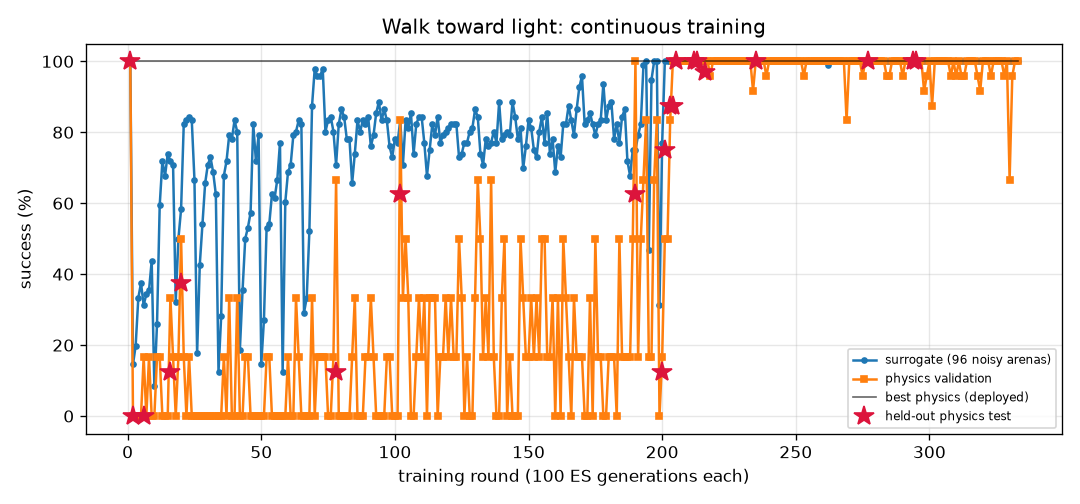
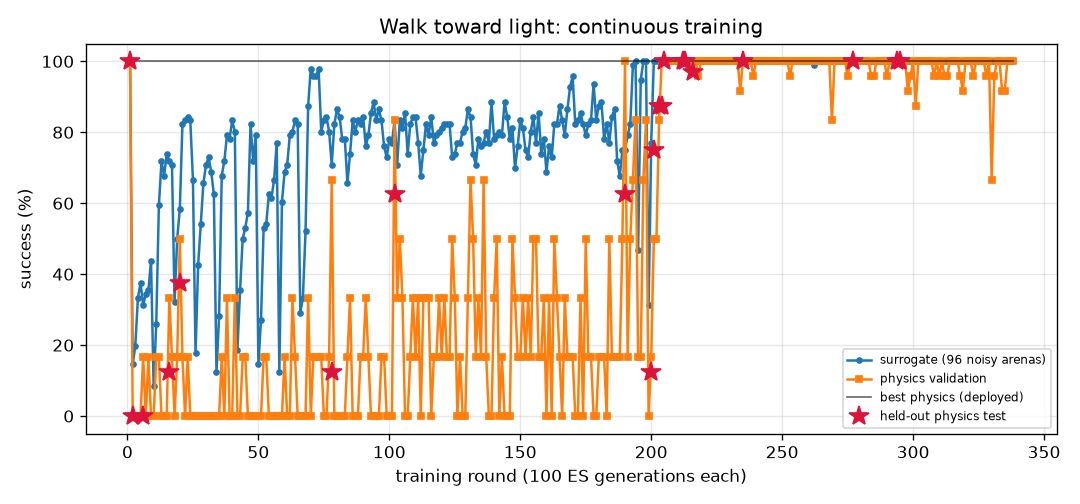
FlyLab: continuous training progress
- walk_forward: optimal, physics val 100% of 24, round 163
- turn: optimal, physics val 100% of 24, round 625
- goto: optimal, physics val 100% of 24, round 152
- odor_seek: optimal, physics val 100% of 24, round 133
- odor_avoid: optimal, physics val 100% of 24, round 600
- light_seek: optimal, physics val 100% of 24, round 338
- light_avoid: optimal, physics val 100% of 24, round 335

diff --git a/projects/09_flylab/training/light_seek/REPORT.md b/projects/09_flylab/training/light_seek/REPORT.md
@@ -1,14 +1,14 @@
 # Walk toward light (`light_seek`) — training report
 
-*Auto-generated by `train_brains.py`, last updated 2026-10-23T22:15:39.*
+*Auto-generated by `train_brains.py`, last updated 2026-10-24T21:12:32.*
 
 ![curve](curve.png)
 
 | | |
 |---|---|
-| rounds | 333 |
-| ES generations | 33300 |
-| physics runs | 4840 |
+| rounds | 338 |
+| ES generations | 33800 |
+| physics runs | 4960 |
 | status | **optimal** |
 | best brain | round 295: physics validation **100%** on 24 arenas, surrogate 100% |
 | held-out physics test | **100%** on 32 unseen arenas (95% CI 89%-100%) (errors: [0.58, 0.62, 0.61, 0.63, 0.65, 0.65, 0.73, 0.55, 0.64, 0.59, 0.59, 0.58, 0.69, 0.61, 0.59, 0.6, 0.6, 0.63, 0.59, 0.64, 0.61, 1.11, 0.62, 0.58, 0.58, 0.58, 0.67, 0.63, 0.58, 0.66, 0.67, 0.59]) |
@@ -17,11 +17,6 @@ Physics error per arena: mm from target at the end (< 1.5 and standing still = s
 
 | round | level | gens | sigma | surrogate | physics val | val errors | test | note |
 |---:|---:|---:|---:|---:|---:|---|---:|---|
-| 294 | 3 | 29400 | 0.024 | 100% | 100% | [0.67, 0.65, 0.65, 0.67, 0.67, 0.62, 0.63, 0.59, 0.68, 0.58, 0.71, 0.69, 0.65, 0.74, 0.68, 0.61, 0.63, 0.66, 0.64, 0.67, 0.74, 0.68, 0.62, 0.73] | 100% | new best |
-| 295 | 3 | 29500 | 0.024 | 100% | 100% | [0.53, 0.58, 0.65, 0.58, 0.68, 0.6, 0.63, 0.66, 0.69, 0.62, 0.63, 0.63, 0.6, 0.65, 0.61, 0.59, 0.67, 0.77, 0.62, 0.65, 0.61, 0.64, 0.64, 0.62] | 100% | new best |
-| 296 | 3 | 29600 | 0.024 | 100% | 100% | [0.51, 0.5, 0.51, 0.65, 0.76, 0.5, 0.57, 0.53, 0.49, 0.83, 0.53, 0.49, 0.51, 0.53, 0.74, 0.49, 0.6, 0.81, 0.65, 0.7, 0.48, 0.72, 0.51, 0.56] |  |  |
-| 297 | 3 | 29700 | 0.024 | 100% | 100% | [0.85, 0.79, 0.53, 0.58, 0.49, 0.59, 0.47, 0.52, 0.51, 0.59, 0.49, 0.51, 0.55, 0.55, 0.6, 0.54, 0.59, 0.47, 0.55, 0.52, 0.46, 0.86, 0.82, 0.6] |  |  |
-| 298 | 3 | 29800 | 0.024 | 100% | 92% | [0.53, 0.56, 0.55, 0.52, 0.52, 0.56, 0.5, 0.58, 0.47, 0.62, 0.46, 1.1, 0.62, 1.01, 0.55, 0.54, 0.57, 0.46, 0.5, 0.56, 0.59, 0.69, 1.55, 2.07] |  |  |
 | 299 | 3 | 29900 | 0.024 | 100% | 96% | [1.06, 0.49, 0.52, 0.48, 0.54, 1.17, 0.82, 0.52, 0.5, 0.53, 0.69, 0.74, 0.62, 1.69, 0.54, 0.51, 0.58, 1.2, 1.07, 0.6, 0.54, 0.72, 0.48, 1.12] |  | restart from best |
 | 300 | 3 | 30000 | 0.024 | 100% | 100% | [1.21, 0.6, 0.54, 0.56, 0.63, 0.53, 0.57, 0.99, 0.58, 0.58, 0.57, 0.52, 0.67, 0.61, 1.14, 0.61, 0.56, 0.57, 0.55, 0.61, 1.26, 0.59, 0.65, 0.55] |  |  |
 | 301 | 3 | 30100 | 0.024 | 100% | 88% | [1.71, 0.93, 0.7, 0.74, 0.62, 0.94, 0.62, 0.6, 0.74, 0.64, 1.89, 0.61, 0.69, 1.65, 0.7, 0.65, 0.65, 0.73, 0.59, 0.7, 1.43, 0.99, 1.03, 0.99] |  |  |
@@ -57,3 +52,8 @@ Physics error per arena: mm from target at the end (< 1.5 and standing still = s
 | 331 | 3 | 33100 | 0.024 | 100% | 96% | [0.65, 0.9, 0.65, 0.64, 0.95, 0.71, 0.52, 0.6, 0.67, 0.6, 0.69, 1.08, 0.99, 2.08, 1.19, 0.6, 0.96, 0.69, 0.73, 1.06, 0.54, 0.51, 0.58, 1.11] |  | restart from best |
 | 332 | 3 | 33200 | 0.024 | 100% | 100% | [1.19, 0.9, 0.82, 0.65, 0.65, 0.94, 0.8, 0.9, 1.45, 0.72, 0.76, 0.72, 0.94, 1.42, 1.08, 0.77, 0.85, 0.96, 0.64, 0.8, 1.15, 0.63, 1.48, 0.83] |  |  |
 | 333 | 3 | 33300 | 0.024 | 100% | 100% | [0.67, 0.7, 0.73, 0.84, 0.66, 0.87, 0.78, 0.77, 0.79, 0.74, 0.71, 0.79, 0.71, 0.6, 0.69, 0.7, 0.81, 0.59, 0.73, 0.66, 0.71, 0.87, 0.73, 0.86] |  |  |
+| 334 | 3 | 33400 | 0.024 | 100% | 92% | [0.65, 0.6, 0.64, 0.97, 0.63, 0.54, 1.0, 1.08, 2.13, 0.97, 0.63, 1.11, 0.68, 0.7, 0.6, 0.68, 0.61, 0.7, 0.64, 0.61, 0.96, 2.41, 0.58, 0.65] |  |  |
+| 335 | 3 | 33500 | 0.024 | 100% | 92% | [0.63, 0.6, 0.64, 0.71, 0.63, 0.55, 0.54, 0.63, 0.61, 0.59, 0.71, 0.59, 0.64, 0.63, 0.67, 0.56, 2.46, 0.68, 0.68, 2.5, 0.65, 0.59, 0.6, 0.61] |  | restart from best |
+| 336 | 3 | 33600 | 0.024 | 100% | 100% | [0.59, 0.65, 0.64, 0.95, 0.66, 1.03, 0.65, 1.0, 0.67, 1.02, 0.73, 0.64, 0.58, 0.66, 0.93, 0.71, 0.94, 1.02, 0.94, 0.68, 0.67, 1.04, 0.66, 0.62] |  |  |
+| 337 | 3 | 33700 | 0.024 | 100% | 100% | [0.55, 0.5, 0.53, 0.51, 0.7, 0.57, 0.55, 0.58, 0.69, 0.5, 0.58, 0.64, 0.66, 0.49, 0.56, 0.56, 0.59, 0.51, 0.47, 0.7, 0.79, 0.56, 0.54, 0.5] |  |  |
+| 338 | 3 | 33800 | 0.024 | 100% | 100% | [0.55, 0.5, 0.64, 0.92, 0.59, 0.51, 0.57, 0.58, 0.6, 0.57, 0.69, 0.56, 0.5, 0.56, 0.75, 0.57, 0.61, 0.69, 0.58, 0.56, 0.61, 0.63, 0.52, 0.74] |  |  |

diff --git a/projects/09_flylab/training/goto/REPORT.md b/projects/09_flylab/training/goto/REPORT.md
@@ -1,14 +1,14 @@
 # Go to a location (`goto`) — training report
 
-*Auto-generated by `train_brains.py`, last updated 2026-10-23T22:19:33.*
+*Auto-generated by `train_brains.py`, last updated 2026-10-24T21:09:36.*
 
 ![curve](curve.png)
 
 | | |
 |---|---|
-| rounds | 148 |
-| ES generations | 14800 |
-| physics runs | 3438 |
+| rounds | 152 |
+| ES generations | 15200 |
+| physics runs | 3534 |
 | status | **optimal** |
 | best brain | round 80: physics validation **100%** on 24 arenas, surrogate 100% |
 | held-out physics test | **100%** on 32 unseen arenas (95% CI 89%-100%) (errors: [0.36, 0.41, 0.3, 0.45, 0.32, 0.33, 0.33, 0.31, 0.35, 0.36, 0.39, 0.36, 0.28, 0.31, 0.4, 0.39, 0.34, 0.39, 0.3, 0.34, 0.36, 0.36, 0.44, 0.34, 0.3, 0.33, 0.4, 0.33, 0.29, 0.43, 0.43, 0.39]) |
@@ -17,10 +17,6 @@ Physics error per arena: mm from target at the end (< 1.5 and standing still = s
 
 | round | level | gens | sigma | surrogate | physics val | val errors | test | note |
 |---:|---:|---:|---:|---:|---:|---|---:|---|
-| 109 | 3 | 10900 | 0.024 | 100% | 100% | [0.61, 0.52, 0.44, 0.49, 0.41, 0.46, 0.61, 0.48, 0.55, 0.43, 0.43, 0.48, 0.57, 0.38, 0.48, 0.46, 0.58, 0.46, 0.43, 0.55, 0.43, 0.47, 0.56, 0.49] |  |  |
-| 110 | 3 | 11000 | 0.024 | 99% | 100% | [0.51, 0.47, 0.37, 0.47, 0.36, 0.41, 0.5, 0.45, 0.52, 0.39, 0.38, 0.46, 0.53, 0.39, 0.43, 0.43, 0.53, 0.42, 0.37, 0.51, 0.39, 0.41, 0.52, 0.46] |  |  |
-| 111 | 3 | 11100 | 0.025 | 100% | 100% | [0.44, 0.45, 0.37, 0.42, 0.34, 0.41, 0.42, 0.45, 0.46, 0.34, 0.36, 0.41, 0.47, 0.39, 0.45, 0.39, 0.47, 0.39, 0.33, 0.44, 0.38, 0.34, 0.48, 0.45] |  |  |
-| 112 | 3 | 11200 | 0.024 | 100% | 100% | [0.49, 0.46, 0.43, 0.37, 0.39, 0.34, 0.5, 0.37, 0.4, 0.37, 0.36, 0.37, 0.43, 0.35, 0.43, 0.43, 0.46, 0.34, 0.37, 0.4, 0.41, 0.36, 0.43, 0.36] |  | restart from best |
 | 113 | 3 | 11300 | 0.024 | 99% | 100% | [0.44, 0.39, 0.28, 0.36, 0.29, 0.31, 0.39, 0.35, 0.37, 0.32, 0.31, 0.35, 0.39, 0.32, 0.37, 0.36, 0.46, 0.36, 0.3, 0.4, 0.33, 0.32, 0.43, 0.34] |  |  |
 | 114 | 3 | 11400 | 0.025 | 100% | 100% | [0.46, 0.45, 0.37, 0.42, 0.33, 0.41, 0.42, 0.48, 0.46, 0.32, 0.34, 0.4, 0.48, 0.37, 0.36, 0.4, 0.48, 0.41, 0.33, 0.46, 0.39, 0.33, 0.49, 0.41] |  |  |
 | 115 | 3 | 11500 | 0.024 | 100% | 100% | [0.42, 0.42, 0.27, 0.31, 0.29, 0.3, 0.39, 0.38, 0.35, 0.29, 0.28, 0.29, 0.37, 0.32, 0.39, 0.38, 0.43, 0.3, 0.27, 0.35, 0.35, 0.28, 0.4, 0.31] |  |  |
@@ -57,3 +53,7 @@ Physics error per arena: mm from target at the end (< 1.5 and standing still = s
 | 146 | 3 | 14600 | 0.026 | 100% | 100% | [0.64, 0.65, 0.54, 0.58, 0.57, 0.57, 0.63, 0.6, 0.62, 0.55, 0.55, 0.55, 0.63, 0.58, 0.62, 0.63, 0.64, 0.57, 0.55, 0.61, 0.6, 0.56, 0.66, 0.57] |  |  |
 | 147 | 3 | 14700 | 0.024 | 100% | 100% | [0.69, 0.71, 0.55, 0.57, 0.58, 0.58, 0.69, 0.56, 0.63, 0.54, 0.54, 0.53, 0.63, 0.58, 0.53, 0.61, 0.7, 0.57, 0.55, 0.62, 0.61, 0.52, 0.64, 0.58] |  |  |
 | 148 | 3 | 14800 | 0.024 | 99% | 100% | [0.49, 0.48, 0.35, 0.4, 0.34, 0.39, 0.43, 0.37, 0.49, 0.33, 0.33, 0.38, 0.48, 0.36, 0.4, 0.39, 0.47, 0.39, 0.34, 0.44, 0.38, 0.33, 0.5, 0.42] |  | restart from best |
+| 149 | 3 | 14900 | 0.024 | 100% | 100% | [0.45, 0.48, 0.35, 0.38, 0.34, 0.37, 0.43, 0.41, 0.39, 0.33, 0.34, 0.35, 0.41, 0.37, 0.42, 0.39, 0.45, 0.36, 0.32, 0.39, 0.38, 0.33, 0.46, 0.38] |  |  |
+| 150 | 3 | 15000 | 0.024 | 100% | 100% | [0.55, 0.47, 0.39, 0.42, 0.37, 0.37, 0.53, 0.36, 0.43, 0.38, 0.35, 0.42, 0.45, 0.35, 0.41, 0.43, 0.53, 0.43, 0.37, 0.48, 0.41, 0.41, 0.5, 0.41] |  |  |
+| 151 | 3 | 15100 | 0.024 | 99% | 100% | [0.54, 0.49, 0.36, 0.39, 0.37, 0.37, 0.52, 0.42, 0.44, 0.37, 0.34, 0.4, 0.46, 0.36, 0.41, 0.44, 0.5, 0.41, 0.37, 0.44, 0.41, 0.38, 0.5, 0.38] |  |  |
+| 152 | 3 | 15200 | 0.025 | 99% | 100% | [0.55, 0.53, 0.37, 0.42, 0.39, 0.41, 0.54, 0.44, 0.47, 0.39, 0.37, 0.43, 0.49, 0.39, 0.42, 0.47, 0.54, 0.44, 0.38, 0.47, 0.44, 0.39, 0.53, 0.41] |  | restart from best |

diff --git a/projects/09_flylab/training/light_avoid/REPORT.md b/projects/09_flylab/training/light_avoid/REPORT.md
@@ -1,14 +1,14 @@
 # Hide from light (`light_avoid`) — training report
 
-*Auto-generated by `train_brains.py`, last updated 2026-10-24T20:08:44.*
+*Auto-generated by `train_brains.py`, last updated 2026-10-24T20:22:24.*
 
 ![curve](curve.png)
 
 | | |
 |---|---|
-| rounds | 333 |
-| ES generations | 33300 |
-| physics runs | 8264 |
+| rounds | 335 |
+| ES generations | 33500 |
+| physics runs | 8312 |
 | status | **optimal** |
 | best brain | round 159: physics validation **100%** on 24 arenas, surrogate 100% |
 | held-out physics test | **100%** on 32 unseen arenas (95% CI 89%-100%) (errors: [14.4, 56.1, 58.0, 57.9, 57.5, 14.0, 14.4, 56.6, 56.8, 13.3, 14.1, 56.6, 57.6, 13.1, 57.3, 55.9, 57.2, 55.0, 55.2, 53.9, 55.2, 12.4, 53.8, 53.7, 14.1, 13.7, 55.0, 57.8, 56.2, 13.1, 52.8, 56.5]) |
@@ -17,8 +17,6 @@ Physics error per arena: mm gained away from source (> 6 without first approachi
 
 | round | level | gens | sigma | surrogate | physics val | val errors | test | note |
 |---:|---:|---:|---:|---:|---:|---|---:|---|
-| 294 | 3 | 29400 | 0.028 | 94% | 96% | [6.2, 54.4, 54.1, 7.3, 53.8, 4.1, 52.9, 14.5, 51.3, 13.3, 51.3, 53.6, 14.4, 53.0, 54.4, 9.0, 14.2, 54.3, 54.8, 14.4, 8.7, 53.1, 52.3, 53.1] |  |  |
-| 295 | 3 | 29500 | 0.028 | 94% | 96% | [6.2, 46.1, 45.8, 7.3, 48.8, 4.4, 43.7, 14.5, 48.9, 13.5, 48.7, 49.0, 14.4, 49.3, 46.0, 9.0, 14.2, 49.0, 46.0, 14.4, 8.7, 49.5, 44.0, 48.9] |  | restart from best |
 | 296 | 3 | 29600 | 0.024 | 100% | 96% | [37.7, 39.0, 38.4, 38.9, 42.1, 38.0, 35.2, 14.5, 40.7, 34.5, 42.3, 39.9, 14.4, 40.8, 38.3, 39.5, 14.2, 40.6, 38.7, 14.4, 38.7, 40.1, 35.2, 40.6] |  |  |
 | 297 | 3 | 29700 | 0.024 | 100% | 100% | [56.0, 58.6, 58.4, 56.3, 57.6, 56.5, 57.4, 14.5, 34.5, 13.4, 57.8, 57.4, 14.4, 57.2, 58.6, 56.2, 14.2, 58.2, 58.9, 14.4, 54.6, 57.6, 57.1, 56.8] |  |  |
 | 298 | 3 | 29800 | 0.024 | 100% | 100% | [53.9, 55.3, 55.1, 53.9, 55.2, 53.8, 53.8, 14.5, 51.0, 13.5, 54.7, 55.1, 14.4, 54.5, 55.2, 52.9, 14.2, 55.7, 55.5, 14.4, 52.8, 54.7, 53.3, 54.6] |  |  |
@@ -57,3 +55,5 @@ Physics error per arena: mm gained away from source (> 6 without first approachi
 | 331 | 3 | 33100 | 0.024 | 99% | 100% | [36.2, 36.6, 37.3, 34.3, 30.9, 36.6, 38.2, 14.5, 13.0, 13.4, 30.1, 31.3, 14.4, 34.1, 36.0, 35.7, 14.2, 32.7, 35.9, 14.4, 35.4, 30.7, 36.7, 31.8] |  | restart from best |
 | 332 | 3 | 33200 | 0.024 | 100% | 100% | [49.8, 51.7, 51.6, 49.6, 49.0, 50.1, 51.1, 14.5, 10.0, 13.3, 50.4, 48.6, 14.4, 51.7, 51.6, 49.9, 14.2, 49.8, 51.9, 14.4, 48.9, 50.5, 50.8, 47.9] |  |  |
 | 333 | 3 | 33300 | 0.024 | 100% | 100% | [45.2, 46.9, 46.5, 47.4, 50.1, 46.7, 44.3, 14.5, 49.3, 13.1, 50.2, 50.2, 14.4, 49.8, 46.4, 46.1, 14.2, 50.1, 46.8, 14.4, 46.3, 50.3, 44.1, 50.5] |  |  |
+| 334 | 3 | 33400 | 0.024 | 100% | 100% | [52.4, 54.7, 54.5, 52.9, 53.8, 53.0, 53.5, 14.5, 50.4, 13.4, 54.4, 53.6, 14.4, 51.9, 54.6, 52.3, 14.2, 54.3, 55.0, 14.4, 52.4, 54.2, 52.9, 52.9] |  |  |
+| 335 | 3 | 33500 | 0.024 | 100% | 100% | [52.1, 54.4, 54.5, 52.1, 51.4, 52.1, 54.0, 14.5, 50.3, 13.3, 50.5, 51.2, 14.4, 50.6, 54.4, 52.3, 14.2, 52.4, 54.3, 14.4, 51.9, 50.8, 53.8, 50.3] |  | restart from best |

diff --git a/projects/09_flylab/training/TRAINING.md b/projects/09_flylab/training/TRAINING.md
@@ -1,6 +1,6 @@
 # FlyLab brains — continuous training log
 
-*Auto-generated by `train_brains.py`, last updated 2026-10-24T20:11:24.*
+*Auto-generated by `train_brains.py`, last updated 2026-10-24T21:12:32.*
 
 Every skill has its own brain and its own training process: surrogate ES rounds, physics validation in MuJoCo, keep-the-best selection, and a held-out physics test that is never used for selection. See each skill's report for its full round-by-round history. Mastery is progressive: passing a level (100% physics validation, >=95% surrogate) doubles the validation and test arena sets; a brain is **optimal** once it holds up at level 3 (>=95% of 24 validation arenas) AND scores >=90% on the 32 held-out test arenas. Test columns show 95% Wilson confidence intervals.
 
@@ -8,8 +8,8 @@ Every skill has its own brain and its own training process: surrogate ES rounds,
 |---|---:|---:|---:|---:|---:|---:|---|
 | [Walk forward](walk_forward/REPORT.md) | 163 | 16300 | 3926 | 100% | 100% of 24 | 100% of 32 (CI 89-100%) | **optimal** |
 | [Turn in place](turn/REPORT.md) | 625 | 62500 | 15246 | 100% | 100% of 24 | 97% of 32 (CI 84-99%) | **optimal** |
-| [Go to a location](goto/REPORT.md) | 148 | 14800 | 3438 | 100% | 100% of 24 | 100% of 32 (CI 89-100%) | **optimal** |
+| [Go to a location](goto/REPORT.md) | 152 | 15200 | 3534 | 100% | 100% of 24 | 100% of 32 (CI 89-100%) | **optimal** |
 | [Find food by smell](odor_seek/REPORT.md) | 133 | 13300 | 2558 | 100% | 100% of 24 | 100% of 32 (CI 89-100%) | **optimal** |
 | [Escape a bad smell](odor_avoid/REPORT.md) | 600 | 60000 | 11706 | 97% | 100% of 24 | 97% of 32 (CI 84-99%) | **optimal** |
-| [Walk toward light](light_seek/REPORT.md) | 333 | 33300 | 4840 | 100% | 100% of 24 | 100% of 32 (CI 89-100%) | **optimal** |
-| [Hide from light](light_avoid/REPORT.md) | 333 | 33300 | 8264 | 100% | 100% of 24 | 100% of 32 (CI 89-100%) | **optimal** |
+| [Walk toward light](light_seek/REPORT.md) | 338 | 33800 | 4960 | 100% | 100% of 24 | 100% of 32 (CI 89-100%) | **optimal** |
+| [Hide from light](light_avoid/REPORT.md) | 335 | 33500 | 8312 | 100% | 100% of 24 | 100% of 32 (CI 89-100%) | **optimal** |
